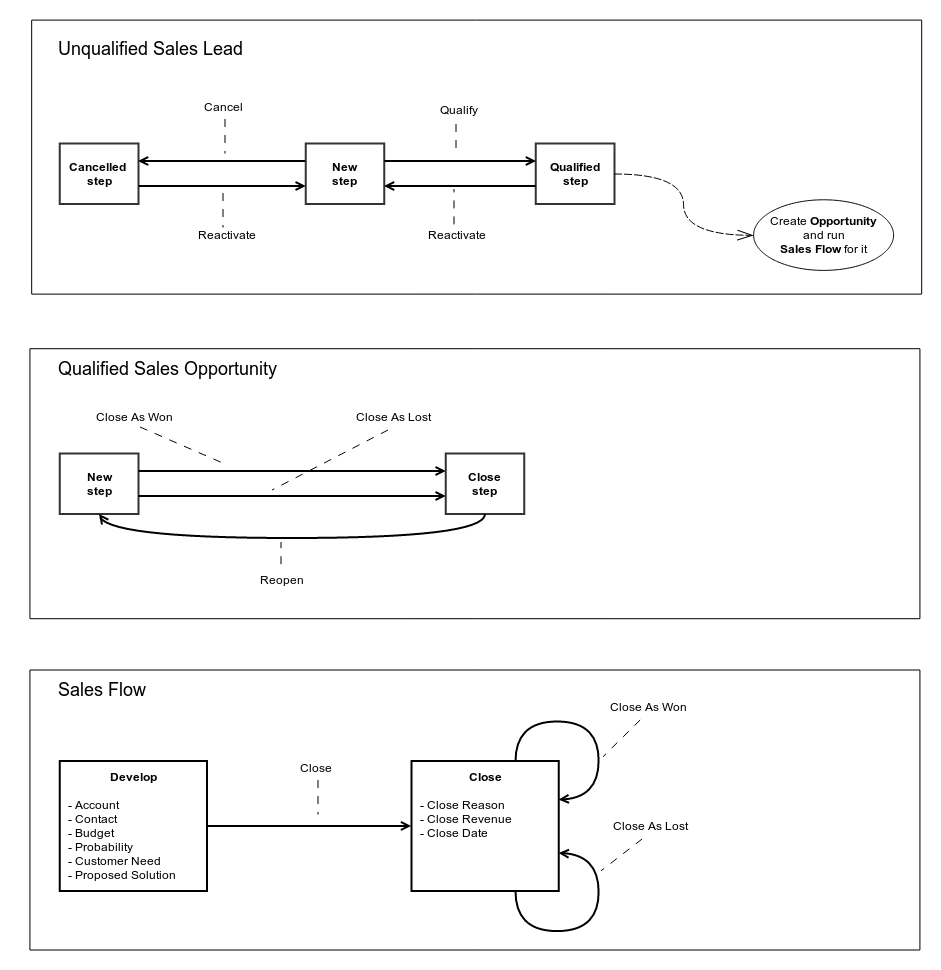
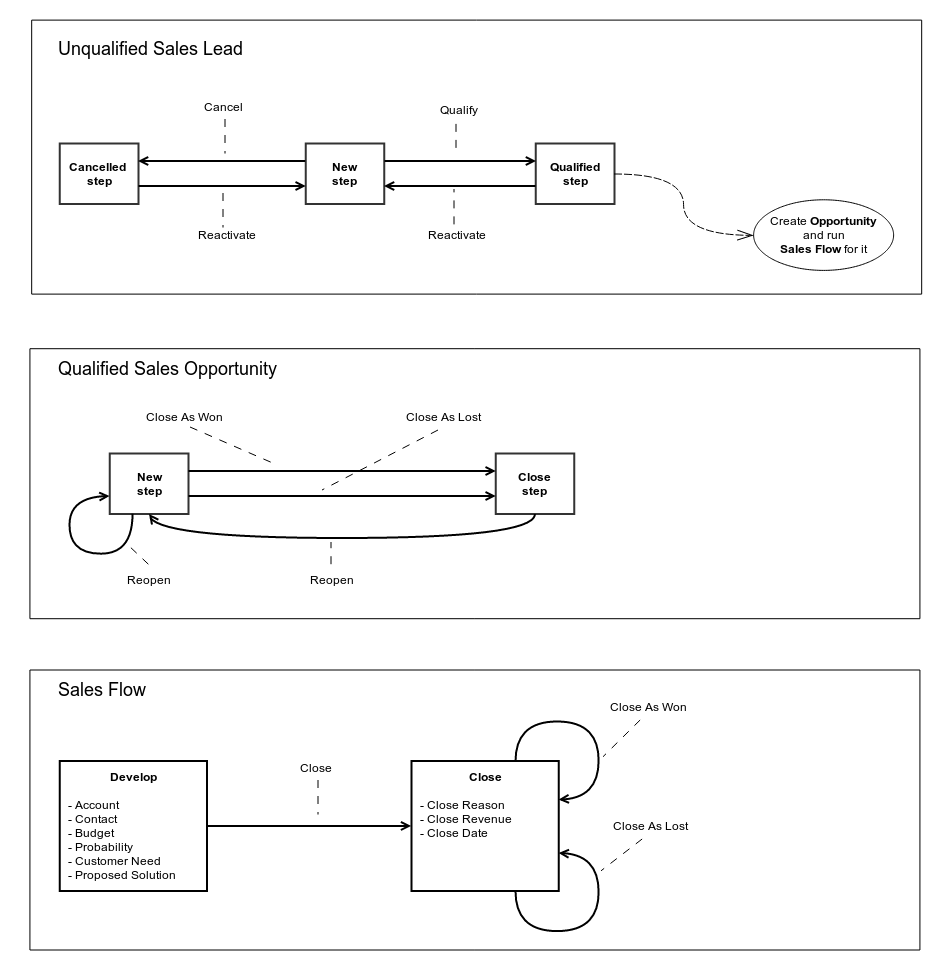
CRM-420: Update Workflow Documentation - update docs

diff --git a/src/OroCRM/Bundle/SalesBundle/Resources/doc/reference/workflows.md b/src/OroCRM/Bundle/SalesBundle/Resources/doc/reference/workflows.md
@@ -53,6 +53,8 @@ Unqualified Sales Lead
  * Start workflow *Sales Flow* with created *Opportunity*
  * Redirect user to created workflow
 
+**Step To:** Qualified
+
 #### Reactivate
 
 **Conditions:**
@@ -60,6 +62,8 @@ Unqualified Sales Lead
 
 **Post Actions:**
  * Switch *Lead* status to *Cancelled*
+
+**Step To:** New
 
 #### Cancel
 
@@ -69,14 +73,59 @@ Unqualified Sales Lead
 **Post Actions:**
  * Switch *Lead* status to *Cancelled*
 
+**Step To:** Cancelled
 
 
 Qualified Sales Opportunity
 ---------------------------
 
+* **Managed entity:** Opportunity (OroCRM\Bundle\SalesBundle\Entity\Opportunity).
+* **Workflow Type:** entity
 
+### Steps And Allowed Transitions
 
+**New Step**
+* Close As Won
+* Close As Lost
+* Reopen
 
+**Close Step**
+* Reopen
+
+### Transitions
+
+#### Close As Won
+
+**Conditions:**
+ * *Opportunity* has *In Progress* status
+
+**Post Actions:**
+ * Switch *Opportunity* status to *Won*
+
+**Step To:**
+* Close
+
+#### Close As Lost
+
+**Conditions:**
+ * *Opportunity* has *In Progress* status
+
+**Post Actions:**
+ * Switch *Opportunity* status to *Lost*
+
+**Step To:**
+* Close
+
+#### Reopen
+
+**Conditions:**
+ * *Opportunity* has *Won* or *Lost* status
+
+**Post Actions:**
+ * Switch *Opportunity* status to *In Progress*
+
+**Step To:**
+* New
 
 Sales Flow
 ----------
